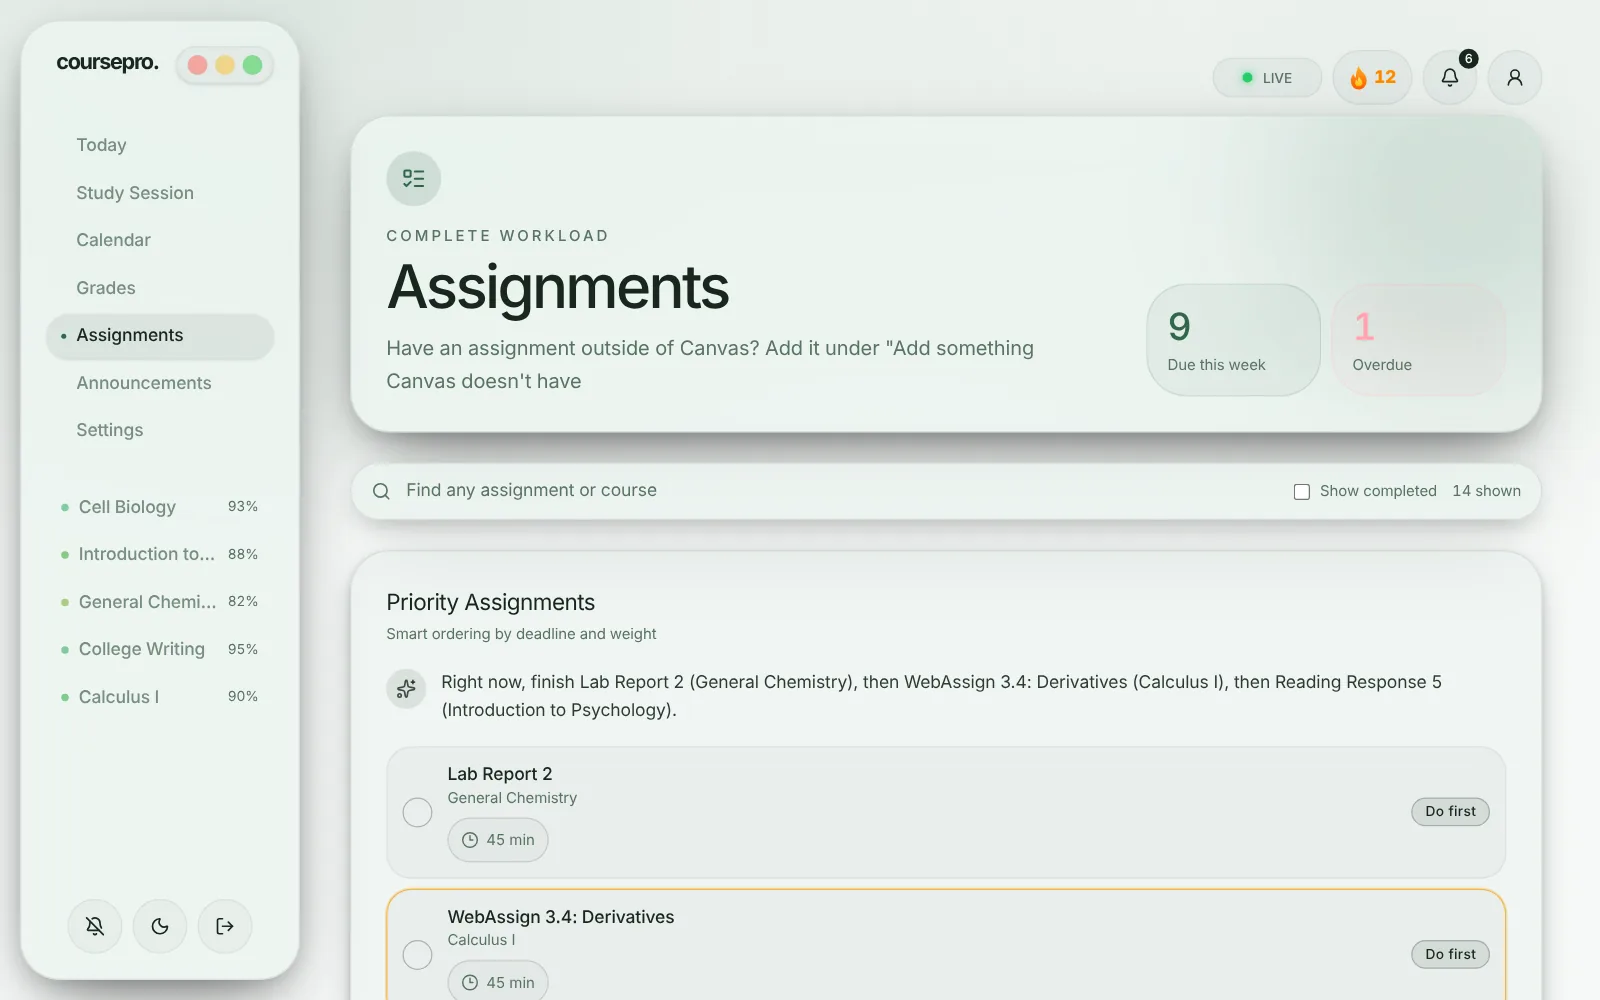
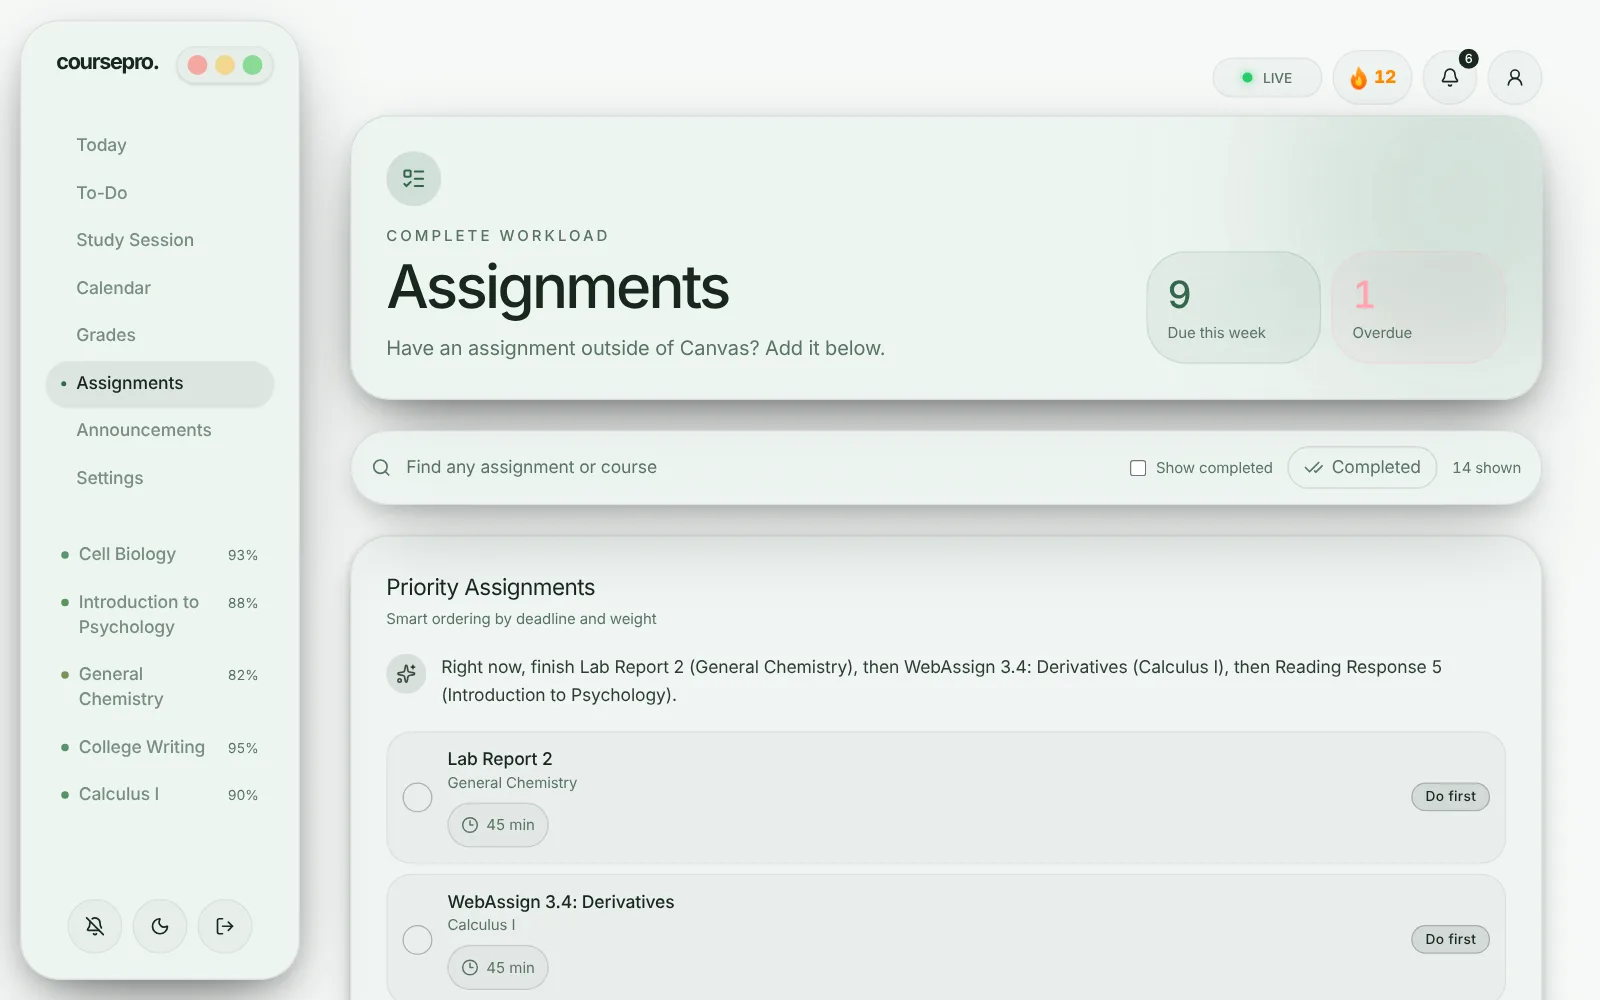
Homepage: today's app in the tour, and one story on price
The tour's screenshots are re-captured from the current app (Today, To-Do,
Study session, Assignments, in dark and light) with their highlight boxes
re-measured; To-Do replaces the old Coming up screen. The hero and page
description say CoursePro is free to use right now, like the rest of the
page, instead of "Free for 14 days".

Claude-Session: https://claude.ai/code/session_018z75hFWrtk9ZnFDL2hqksJ

diff --git a/src/routes/index.tsx b/src/routes/index.tsx
@@ -17,14 +17,14 @@ export const Route = createFileRoute("/")({
       {
         name: "description",
         content:
-          "See every Canvas assignment, grade and deadline in one clean dashboard, sorted by what's due first. Try it free for 14 days.",
+          "See every Canvas assignment, grade and deadline in one clean dashboard, sorted by what's due first. Free to use right now.",
       },
       { property: "og:type", content: "website" },
       { property: "og:title", content: "CoursePro — A Better Canvas Dashboard for Students" },
       {
         property: "og:description",
         content:
-          "See every Canvas assignment, grade and deadline in one clean dashboard, sorted by what's due first. Try it free for 14 days.",
+          "See every Canvas assignment, grade and deadline in one clean dashboard, sorted by what's due first. Free to use right now.",
       },
       { property: "og:url", content: "https://canvaspro.app/" },
       {
@@ -78,25 +78,25 @@ export const Route = createFileRoute("/")({
  * old copies of an unchanged URL, so recapturing the screens means re-measuring
  * `focus` and changing this together.
  */
-const SHOTS_VERSION = "forest-2026-10-19";
+const SHOTS_VERSION = "todo-2026-10-21";
 
 /** Real screens of the app. Screenshots live in /public/home, in light and dark. */
 const SCREENS = [
   {
     id: "dashboard",
-    label: "Dashboard",
+    label: "Today",
     title: "A clearer picture of your day.",
-    caption: "Your grades, the next thing to do, and everything due in the next 24 hours.",
-    alt: "The CoursePro dashboard with a greeting, the next assignment up, and class grades.",
-    focus: { x: 68.9, y: 24.3, w: 24.8, h: 23.7, label: "The one thing to do next" },
+    caption: "Your week at a glance, and the one thing to do next with a button to start it.",
+    alt: "The CoursePro Today page with a greeting, seven days as circles, and the next assignment up.",
+    focus: { x: 62.2, y: 10.8, w: 34.7, h: 24.8, label: "The one thing to do next" },
   },
   {
-    id: "coming-up",
-    label: "Coming up",
+    id: "todo",
+    label: "To-Do",
     title: "Your week, with room to breathe.",
-    caption: "The week ahead, one day at a time, with how long each assignment should take.",
-    alt: "The Coming Up page with a seven-day strip and assignments grouped by day.",
-    focus: { x: 24.4, y: 30.8, w: 69.4, h: 8.9, label: "Seven days at a glance" },
+    caption: "Everything due, one day at a time, with how long each assignment should take.",
+    alt: "The To-Do page with the week's progress and assignments grouped by day.",
+    focus: { x: 28.8, y: 17.3, w: 60.6, h: 7.5, label: "Your week, done and to go" },
   },
   {
     id: "study",
@@ -104,7 +104,7 @@ const SCREENS = [
     title: "A little focus goes a long way.",
     caption: "Pick assignments, choose a total time, time per assignment, or Pomodoro, and start.",
     alt: "The Study Session page: pick assignments on the left, your session and its time on the right.",
-    focus: { x: 62.2, y: 29.1, w: 31.6, h: 14.5, label: "Your session, in order" },
+    focus: { x: 71.2, y: 27.9, w: 16.6, h: 30, label: "Your session at a glance" },
   },
   {
     id: "assignments",
@@ -112,7 +112,7 @@ const SCREENS = [
     title: "The right work. In the right order.",
     caption: "Every class in one list, ordered so the most pressing work is on top.",
     alt: "The Assignments page with a weekly count and a ranked list of work.",
-    focus: { x: 24.1, y: 66, w: 70, h: 6.5, label: "What to do right now, in plain words" },
+    focus: { x: 23.5, y: 64.4, w: 71.3, h: 7.7, label: "What to do right now, in plain words" },
   },
 ] as const;
 
@@ -809,7 +809,7 @@ function LandingPage() {
             </h1>
             <p className="hp-lede hp-rise">
               CoursePro puts your assignments, grades and announcements on one calm page, with the
-              next thing to do right at the top. Free for 14 days.
+              next thing to do right at the top. Free to use right now.
             </p>
             <div className="hp-actions hp-rise">
               <Link to={cta} preload="intent" className="hp-button">
